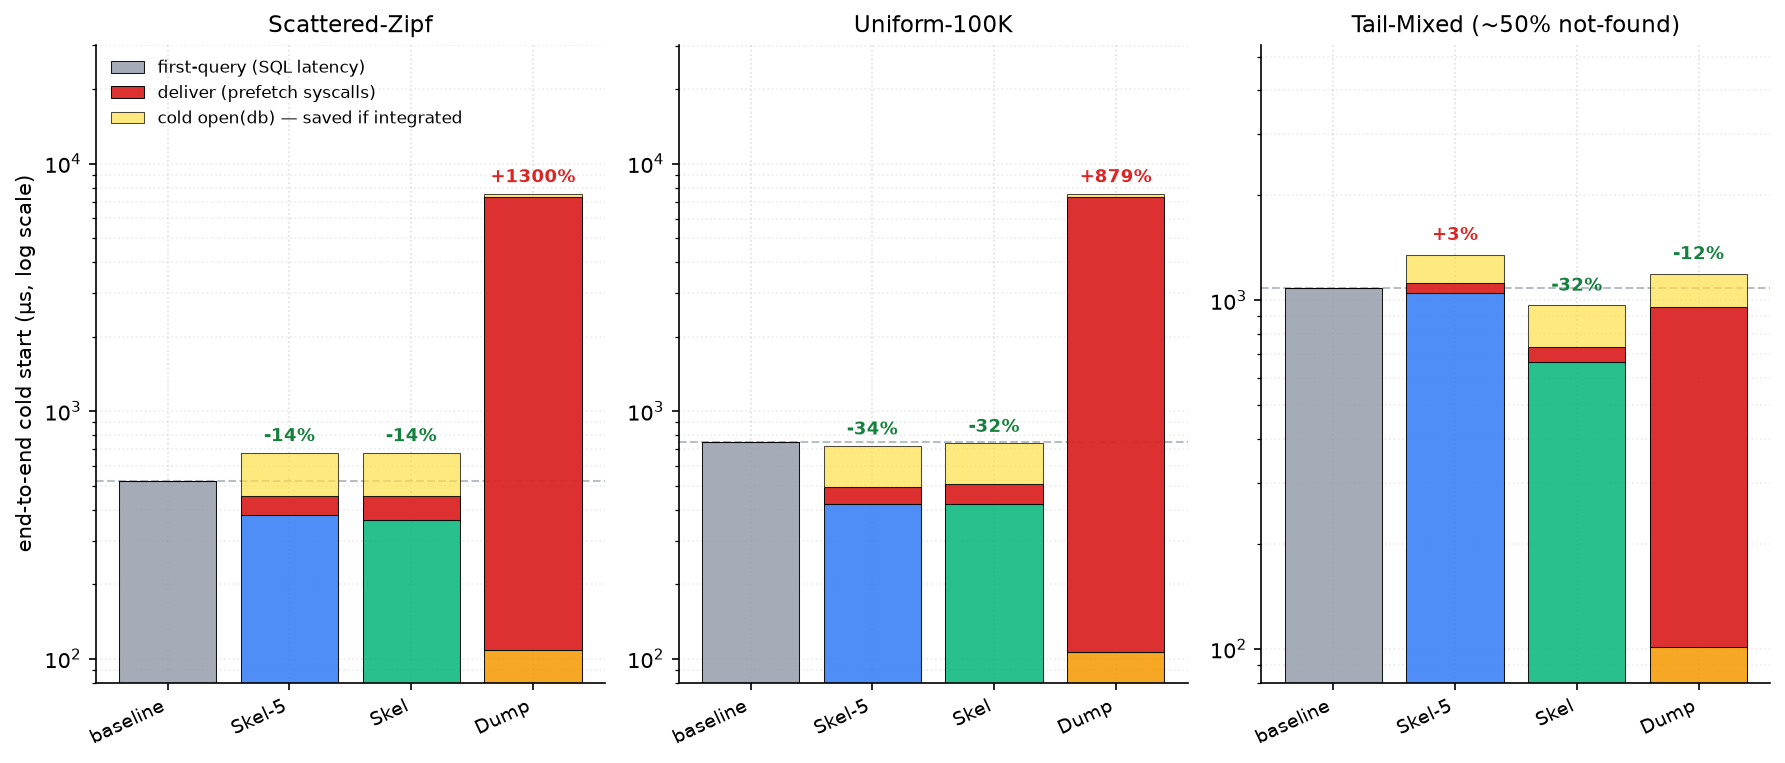
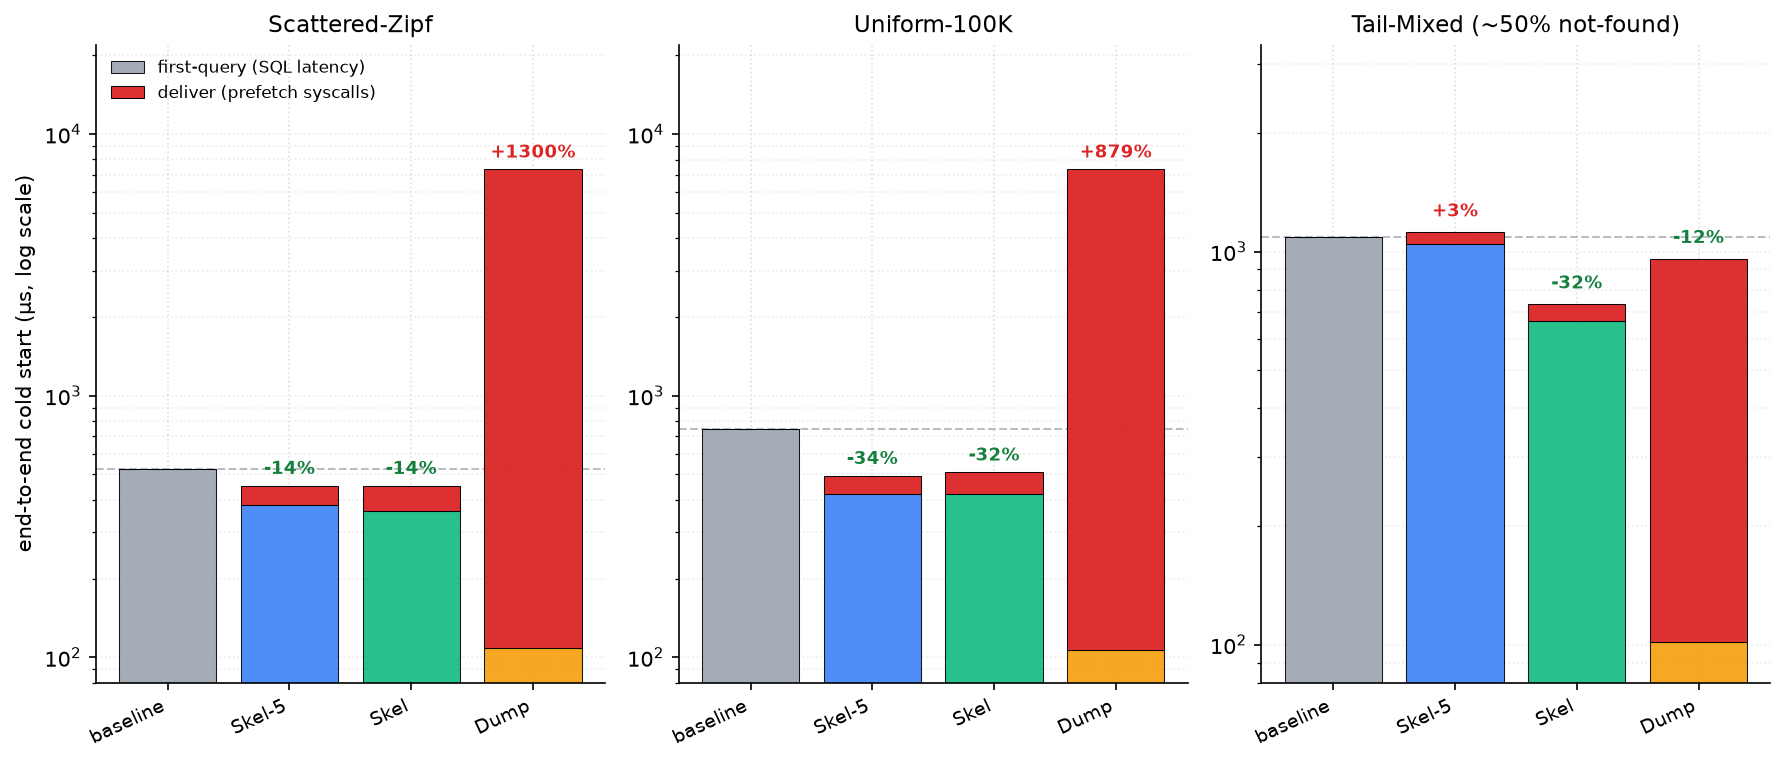
fig14: drop cold-open(db) segment; bars now show e2e_warm only
Rewrite caption (L597) and body paragraph (L602) so both describe the
warm-process model only. The standalone cold-open term t_open stays in the
text via Eq/Table tab:e2e-ac. Also corrects stale color words (deliver=red).

diff --git a/main.tex b/main.tex
@@ -594,12 +594,12 @@ Section~\ref{sec:eval-robustness}), and on Tail-Mixed it is robustly worse ($+5\
 \begin{figure*}[htbp]
 \centering
 \includegraphics[width=\textwidth]{figures/14_strategy_endtoend_stacked.png}
-\caption{End-to-end cold-start decomposition across the two deployment models, from a single machine-state batch (\texttt{results/unified\_v2}, tie-break-unaffected strategies only: baseline, \texttt{Skel-5}, \texttt{Skel}, \texttt{Dump}). Each bar stacks first-query latency (solid), prefetch deliver cost (yellow hatched), and the cold open(db) (grey cross-hatched). The full bar is $\text{e2e}_{\text{standalone}}$ and the bar without the grey segment is $\text{e2e}_{\text{warm}}$ (the cold open an integrated deployment avoids). Green labels are warm-process improvements over the same-workload baseline (dashed line), and red labels are regressions. The full dump \texttt{Dump} regresses warm-process e2e by $+1300\%$ (Scattered-Zipf) and $+879\%$ (Uniform-100K). Tail-Mixed, whose working set is small, is the narrow exception ($-12\%$). The tie-break-corrected hotspot arms (Scattered-Zipf \texttt{Skel+500}, Tail-Mixed \texttt{Skel+10}) belong to a different batch and are reported in Table~\ref{tab:corrected-arms}, not stacked here. The Scattered-Zipf/Uniform-100K \texttt{Skel-5} improvements are single-instantiation only and not cross-seed robust (Table~\ref{tab:e2e-ac}, \S\ref{sec:stats}).}
+\caption{End-to-end cold-start decomposition in the warm-process deployment model, from a single machine-state batch (\texttt{results/unified\_v2}, tie-break-unaffected strategies only: baseline, \texttt{Skel-5}, \texttt{Skel}, \texttt{Dump}). Each bar stacks first-query latency (solid) and prefetch deliver cost (red segment), so the bar height is $\text{e2e}_{\text{warm}}$, the end-to-end cold start an integrated deployment pays. The standalone external-warmer model adds a strategy-independent cold-open term $t_{\text{open}}$ that is not shown here and is reported in Table~\ref{tab:e2e-ac}. Green labels are warm-process improvements over the same-workload baseline (dashed line), and red labels are regressions. The full dump \texttt{Dump} regresses warm-process e2e by $+1300\%$ (Scattered-Zipf) and $+879\%$ (Uniform-100K). Tail-Mixed, whose working set is small, is the narrow exception ($-12\%$). The tie-break-corrected hotspot arms (Scattered-Zipf \texttt{Skel+500}, Tail-Mixed \texttt{Skel+10}) belong to a different batch and are reported in Table~\ref{tab:corrected-arms}, not stacked here. The Scattered-Zipf/Uniform-100K \texttt{Skel-5} improvements are single-instantiation only and not cross-seed robust (Table~\ref{tab:e2e-ac}, \S\ref{sec:stats}).}
 
 \label{fig:e2e-stacked}
 \end{figure*}
 
-Figure~\ref{fig:e2e-stacked} visualizes this trade-off. The full bar height is $\text{e2e}_{\text{standalone}}$. Removing the gray cold-open segment (the cost an integrated deployment avoids) yields $\text{e2e}_{\text{warm}}$. \texttt{Dump} rises far above the dashed baseline on Scattered-Zipf and Uniform-100K, while the interior skeleton \texttt{Skel} sits below it in the warm-process model on all three workloads. The \texttt{Skel-5} wins there are single-instantiation only and not cross-seed robust (Table~\ref{tab:e2e-ac}).
+Figure~\ref{fig:e2e-stacked} visualizes this trade-off in the warm-process model, where each bar height is $\text{e2e}_{\text{warm}}$ (first-query plus deliver). \texttt{Dump} rises far above the dashed baseline on Scattered-Zipf and Uniform-100K, while the interior skeleton \texttt{Skel} sits below it on all three workloads. The \texttt{Skel-5} wins there are single-instantiation only and not cross-seed robust (Table~\ref{tab:e2e-ac}).
 
 The end-to-end accounting supports three conclusions. First, the cache-dump approach \texttt{Dump} shows that minimizing first-query latency does not guarantee end-to-end acceleration, because its deliver overhead of 0.8 to 7 ms dominates the critical path. Second, the deployment model determines the end-to-end verdict. In the external-warmer model, the cold open cost eliminates the benefit on fast workloads. In the warm-process model, which we advocate for serverless keep-alive and edge worker deployments, the targeted strategies improve end-to-end latency across all three workloads. Third, the open cost is not a prefetch tax but a deployment constant. It shifts the zero point between the two models but never determines the relative performance of prefetch strategies within either model.
 
